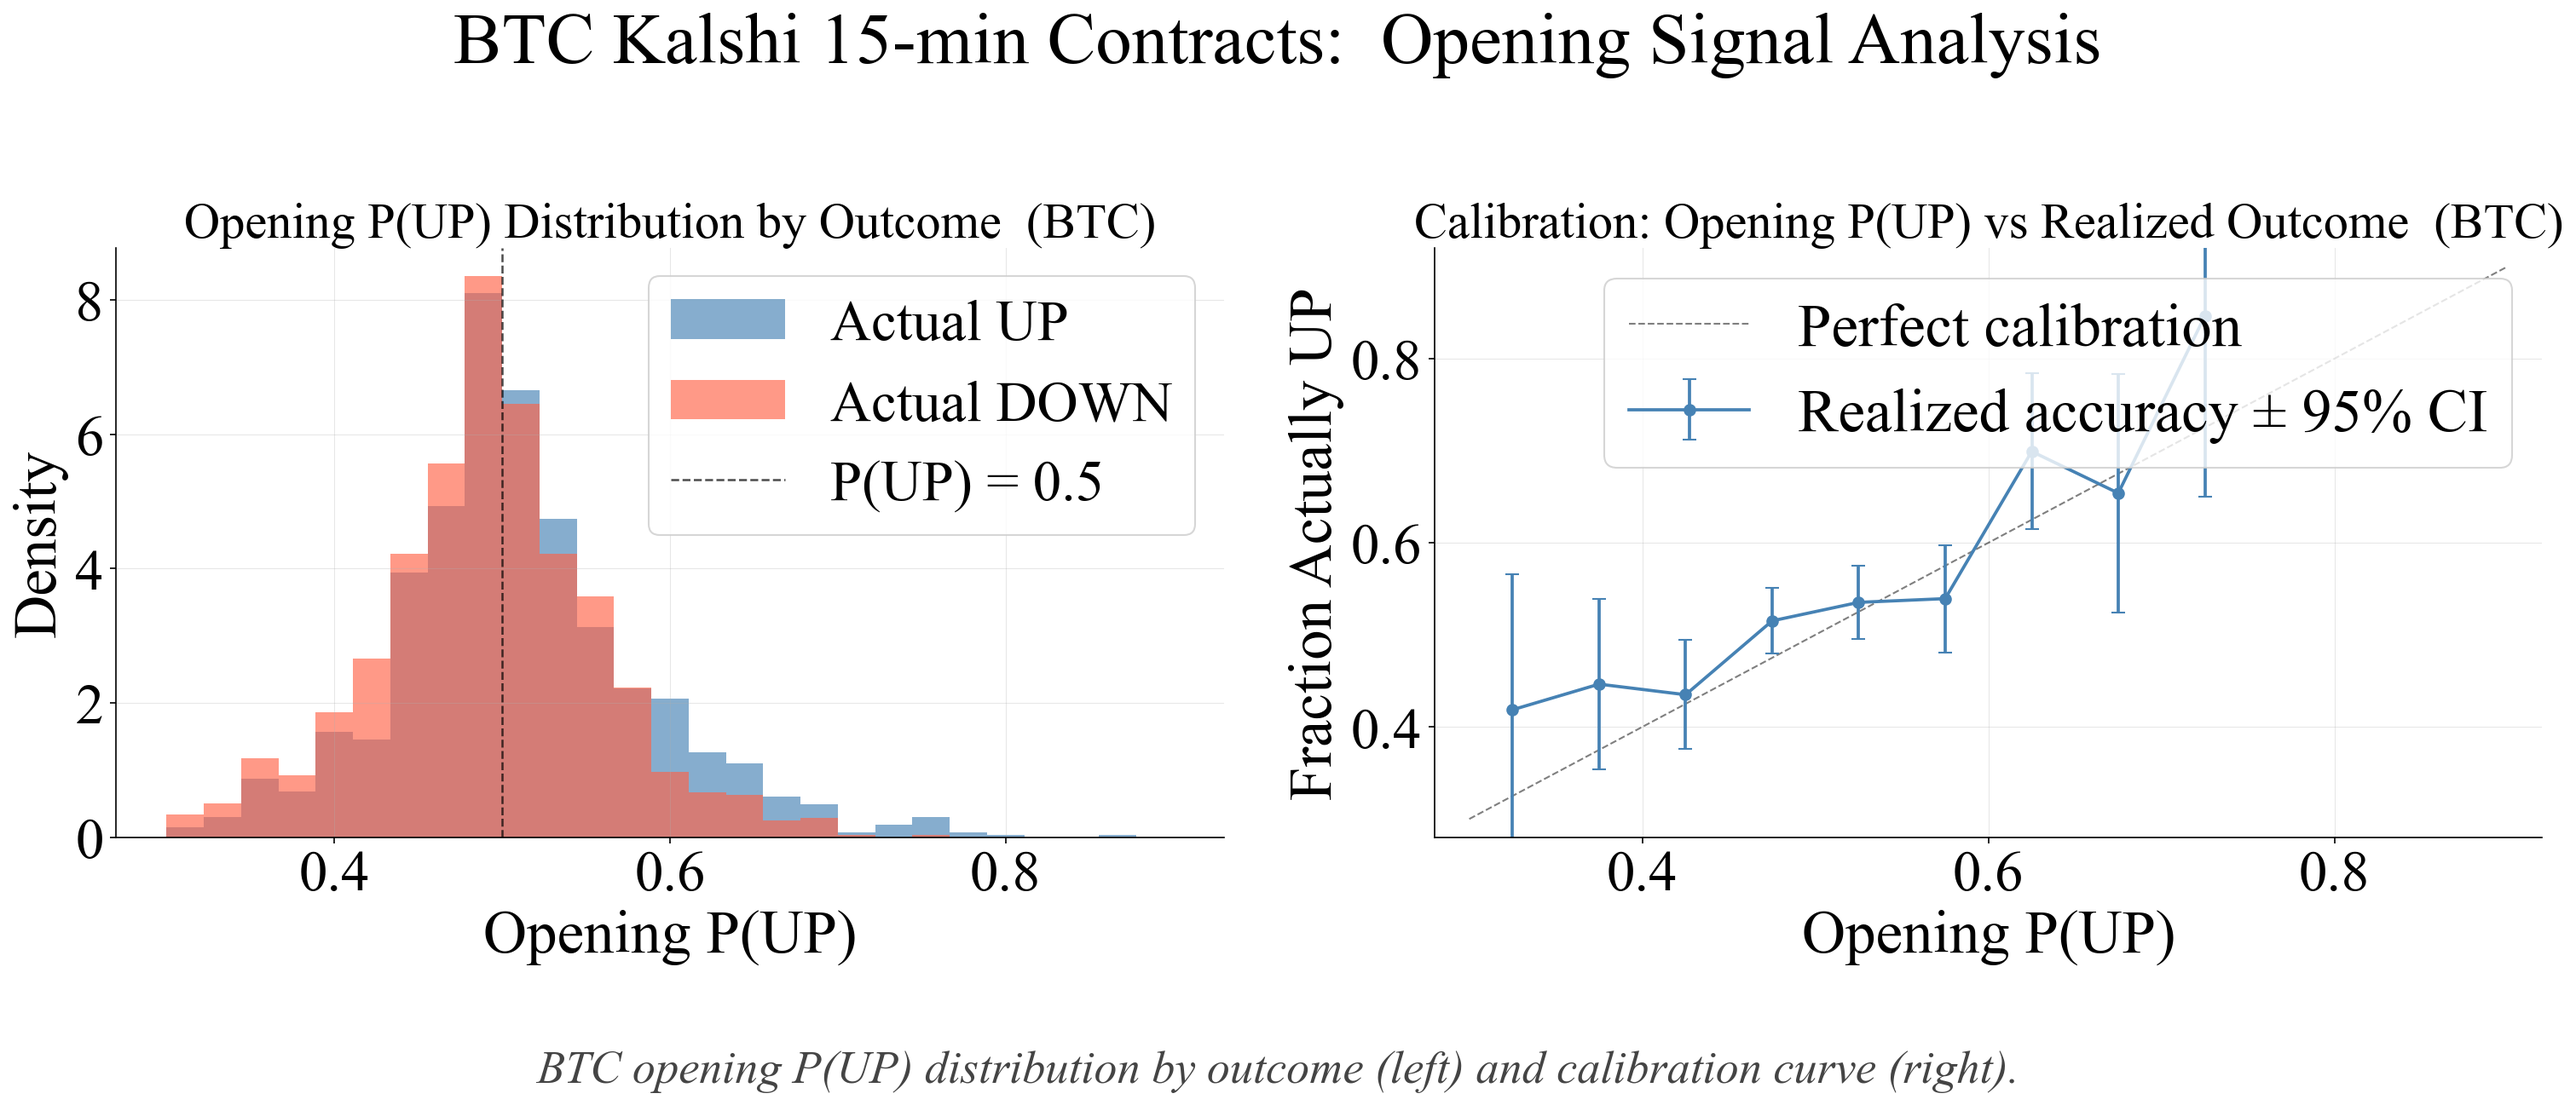
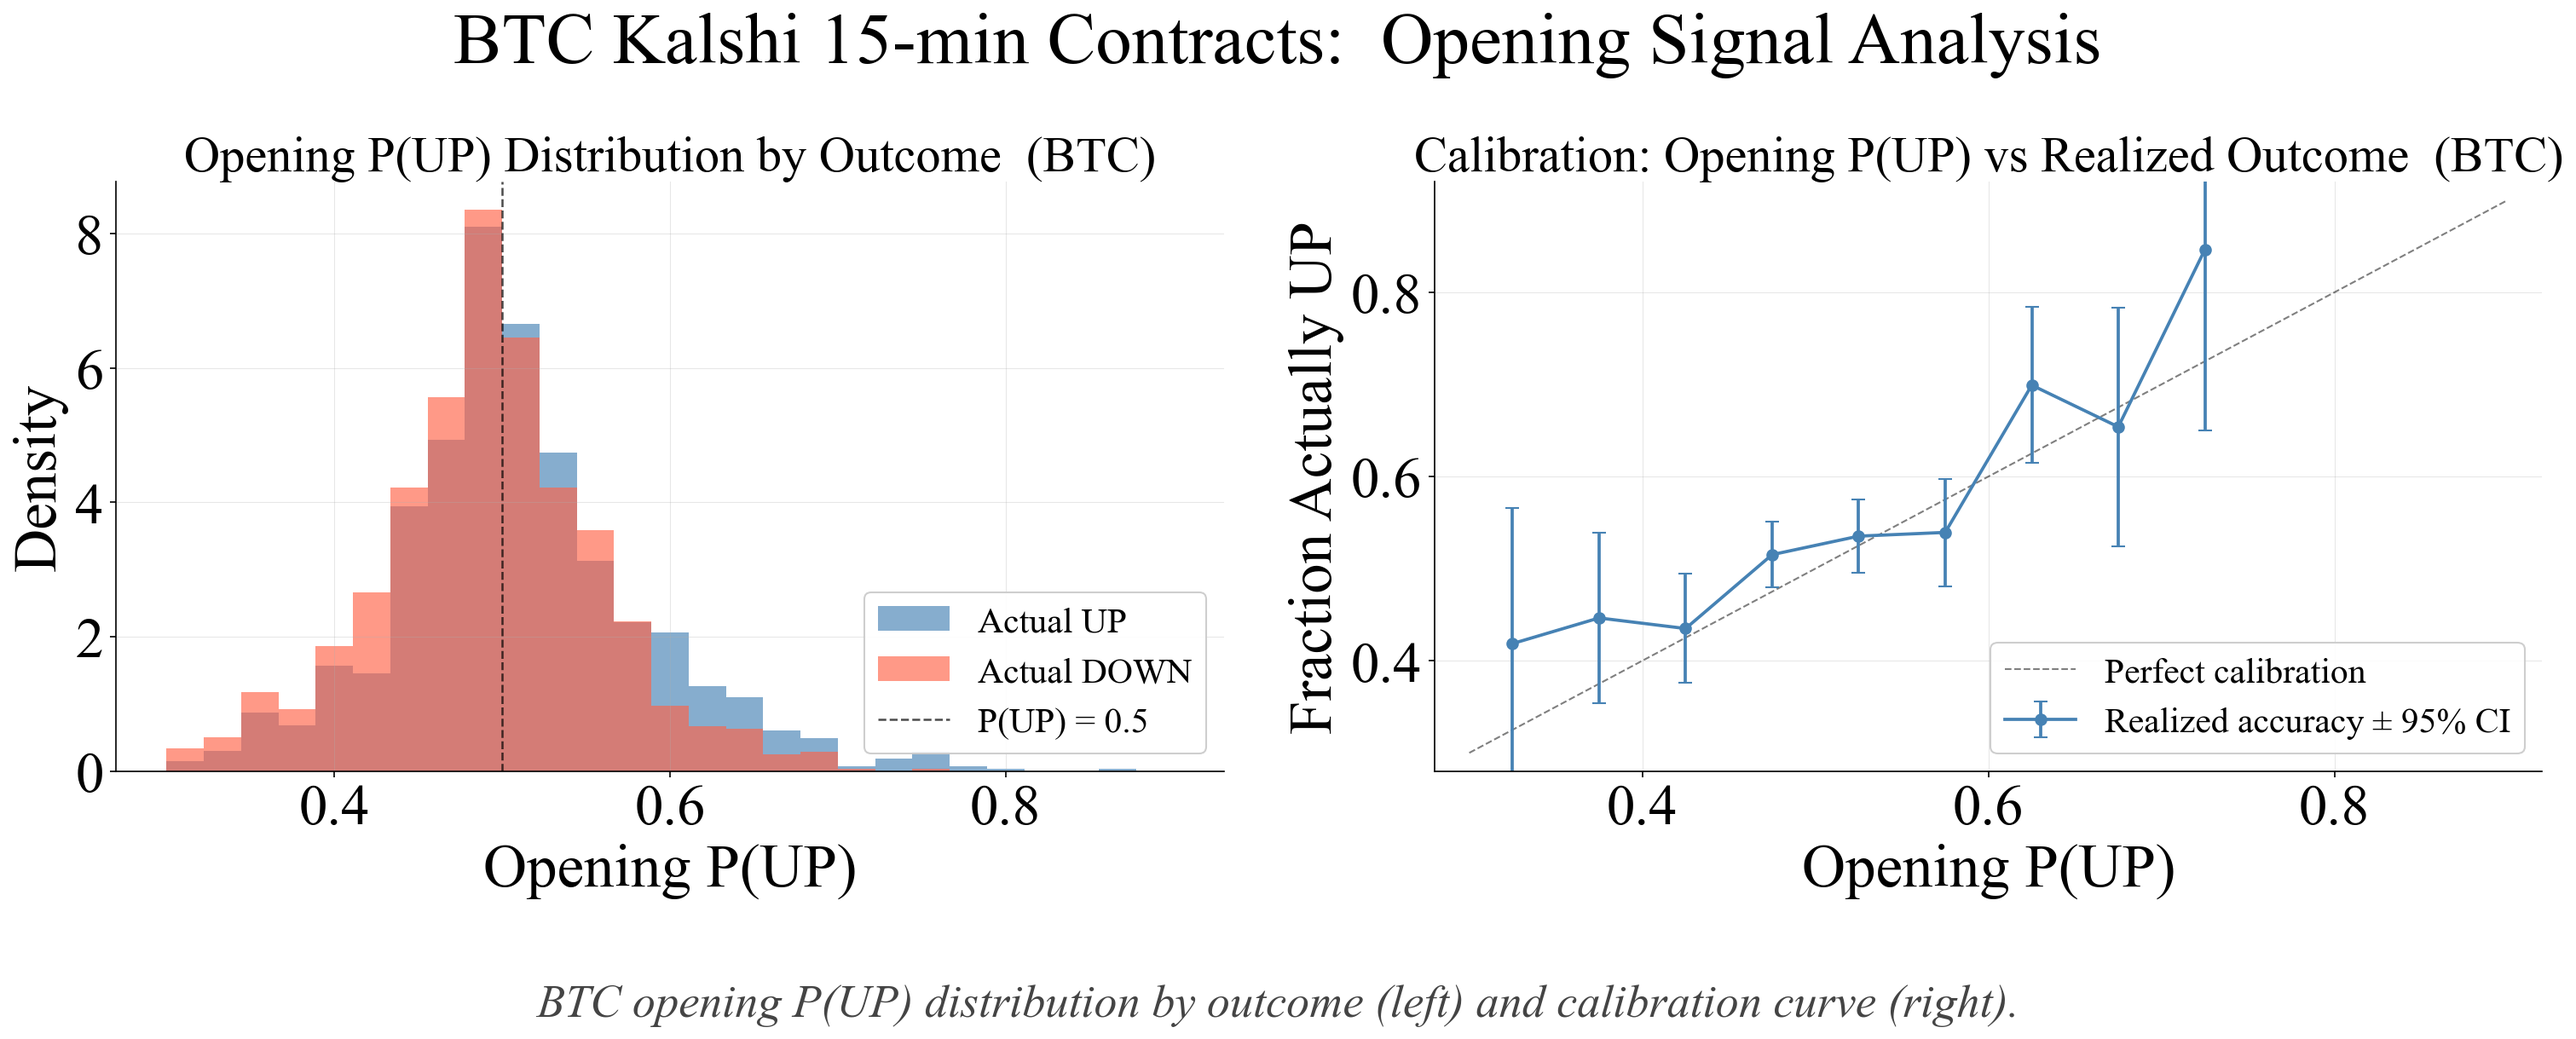
Restore Xavi's original scripts/kalshi/btc/ + figure tweaks
I should not have touched Xavi's directory in the prior refactor.  This
commit restores his five analysis scripts and five PNG outputs in
scripts/kalshi/btc/ exactly as they were at 77670eb (one commit before
the refactor).  Our refactored copies under scripts/kalshi/analysis/
calibration/ are kept — they have repo-root-relative paths and feed the
deck — so Xavi's folder is preserved for him and the refactored layout
still works.

Calibration panel (figures/eda/calibration_panel.png)
  - Legends moved to lower-right of each panel, dropped from 34 pt → 20 pt.
  - Suptitle lowered (y=0.995 → y=0.93) so it no longer overlaps the panel
    titles.

Hourly accuracy (figures/eda/hourly_accuracy.png)
  - Figure widened/enlarged: figsize=(22, 11) → (28, 14).
  - Red overconfidence-gap labels shrunk: 22 pt → 14 pt so they fit
    inside the bar/gap region without overflow.

diff --git a/scripts/kalshi/btc/btc_entry_strategy.py b/scripts/kalshi/btc/btc_entry_strategy.py
@@ -1,0 +1,117 @@
+import numpy as np
+import pandas as pd
+import matplotlib.pyplot as plt
+import matplotlib.colors as mcolors
+
+THRESHOLD   = 0.60
+ROLL_WIN    = 3
+STAY_CONSEC = 2
+
+df = pd.read_csv("kalshi_btc_prices.csv")
+df["Timestamp"]     = pd.to_datetime(df["Timestamp"])
+df["Correct_bin"]   = (df["Correct?"] == "Correct").astype(int)
+df["Minute_offset"] = df.groupby("Market Ticker").cumcount()
+
+open_p = (
+    df[df["Minute_offset"] == 0]
+    .set_index("Market Ticker")["P(UP)"]
+    .rename("Open_PUP")
+)
+df = df.join(open_p, on="Market Ticker")
+
+bin_edges  = [0.0, 0.35, 0.45, 0.55, 0.65, 0.75, 1.01]
+bin_labels = ["<=0.35", "0.35-0.45", "0.45-0.55", "0.55-0.65", "0.65-0.75", ">=0.75"]
+bin_order  = bin_labels[::-1]
+
+df["Open_bin"] = pd.cut(df["Open_PUP"], bins=bin_edges, labels=bin_labels, right=False)
+
+raw = (
+    df.groupby(["Open_bin", "Minute_offset"], observed=True)["Correct_bin"]
+    .mean()
+    .unstack("Minute_offset")
+    .reindex(bin_order)
+)
+n_per_bin = (
+    df[df["Minute_offset"] == 0]
+    .groupby("Open_bin", observed=True)
+    .size()
+    .reindex(bin_order)
+)
+rolled = raw.T.rolling(window=ROLL_WIN, center=True, min_periods=2).mean().T
+
+
+def first_sustained_cross(series, threshold, consec):
+    vals = series.values
+    idxs = series.index.tolist()
+    for i in range(len(vals) - consec + 1):
+        window = vals[i : i + consec]
+        if not any(np.isnan(v) for v in window) and all(v >= threshold for v in window):
+            return idxs[i]
+    return None
+
+
+rows = []
+for b in bin_order:
+    em           = first_sustained_cross(rolled.loc[b].dropna(), THRESHOLD, STAY_CONSEC)
+    raw_at_em    = raw.loc[b, em]    if em is not None else np.nan
+    rolled_at_em = rolled.loc[b, em] if em is not None else np.nan
+    peak_rolled  = rolled.loc[b].max()
+    peak_minute  = rolled.loc[b].idxmax() if not np.isnan(peak_rolled) else None
+    rows.append({
+        "P(UP) Bin":             b,
+        "n":                     int(n_per_bin[b]),
+        "Entry Min":             em if em is not None else "never",
+        "Raw Accuracy":               f"{raw_at_em:.1%}"    if not np.isnan(raw_at_em)    else "—",
+        "Smoothed Accuracy":          f"{rolled_at_em:.1%}" if not np.isnan(rolled_at_em) else "—",
+    })
+
+rule_df = pd.DataFrame(rows)
+
+cols = list(rule_df.columns)
+cell_text = rule_df.values.tolist()
+
+entry_col_idx = cols.index("Entry Min")
+cmap = plt.get_cmap("RdYlGn")
+
+cell_colours = [["#f5f5f5" if r % 2 == 0 else "white"] * len(cols)
+                for r in range(len(cell_text))]
+
+entry_vals = [row[entry_col_idx] for row in cell_text]
+numeric_entries = [v for v in entry_vals if isinstance(v, (int, float))]
+vmin, vmax = (min(numeric_entries), max(numeric_entries)) if numeric_entries else (0, 14)
+
+for r, val in enumerate(entry_vals):
+    if isinstance(val, (int, float)):
+        norm = 1.0 - (val - vmin) / max(vmax - vmin, 1)
+        rgba = cmap(0.2 + norm * 0.6)
+        cell_colours[r][entry_col_idx] = mcolors.to_hex(rgba)
+    else:
+        cell_colours[r][entry_col_idx] = "#ffcccc"
+
+fig, ax = plt.subplots(figsize=(13, 3.2))
+ax.axis("off")
+
+tbl = ax.table(
+    cellText=cell_text,
+    colLabels=cols,
+    cellColours=cell_colours,
+    cellLoc="center",
+    loc="center",
+)
+tbl.auto_set_font_size(False)
+tbl.set_fontsize(9.5)
+tbl.scale(1, 1.6)
+
+for c in range(len(cols)):
+    tbl[0, c].set_facecolor("#2c3e50")
+    tbl[0, c].set_text_props(color="white", fontweight="bold")
+
+plt.suptitle(
+    f"BTC Conviction-conditional Entry Rule \n"
+    f"(Threshold={THRESHOLD:.0%}, Rolling Window={ROLL_WIN}, Stay Consecutively={STAY_CONSEC})",
+    fontsize=11, fontweight="bold", y=0.98,
+)
+plt.tight_layout()
+plt.savefig("btc_entry_table.png", dpi=150, bbox_inches="tight")
+print("Saved btc_entry_table.png")
+plt.show()

diff --git a/scripts/kalshi/btc/btc_hourly_analysis.py b/scripts/kalshi/btc/btc_hourly_analysis.py
@@ -1,40 +1,9 @@
-"""
-Intraday seasonality in Kalshi BTC opening accuracy.
-
-Aggregates contracts by UTC hour of open and computes:
-  - implied accuracy = mean opening probability assigned to the favored side
-  - realized accuracy = fraction of those contracts that actually resolved
-    in the favored direction
-Bars highlight hours where realized accuracy falls more than 5 percentage
-points below the implied accuracy (overconfidence gap). This is slide 8 of
-the presentation — Intraday Variability in Realized Accuracy.
-
-Output: figures/eda/hourly_accuracy.png
-"""
-
 import pandas as pd
 import matplotlib.pyplot as plt
-from pathlib import Path
-
-import matplotlib as _mpl
-_mpl.rcParams.update({
-    "font.family":      "Times New Roman",
-    "font.serif":       ["Times New Roman"],
-    "mathtext.fontset": "stix",
-    "font.size":        34,
-    "axes.titlesize":   36,
-    "axes.labelsize":   34,
-    "xtick.labelsize":  32,
-    "ytick.labelsize":  32,
-    "legend.fontsize":  32,
-})
-
-ROOT = Path(__file__).resolve().parents[4]
-
 
 OVERCONFIDENCE_THRESHOLD = 0.05   
 
-df = pd.read_csv(ROOT / "data" / "btc" / "kalshi_btc_prices.csv")
+df = pd.read_csv("kalshi_btc_prices.csv")
 df["Timestamp"]     = pd.to_datetime(df["Timestamp"])
 df["Correct_bin"]   = (df["Correct?"] == "Correct").astype(int)
 df["Minute_offset"] = df.groupby("Market Ticker").cumcount()
@@ -86,7 +55,7 @@ if not flagged.empty:
 else:
     print("\nNo systematically overconfident hours detected.")
 
-fig, ax = plt.subplots(figsize=(28, 14))
+fig, ax = plt.subplots(figsize=(14, 5))
 
 bar_colors = ["#c0392b" if oc else "#2980b9" for oc in is_oc]
 ax.bar(hours, acc, color=bar_colors, width=0.7, edgecolor="white", linewidth=0.6,
@@ -101,7 +70,7 @@ for h, ac, im, oc in zip(hours, acc, implied, is_oc):
             f"−{im - ac:.0%}",
             xy=(h, ac),
             xytext=(h, (ac + im) / 2),
-            ha="center", va="center", fontsize=14, color="#c0392b",
+            ha="center", va="center", fontsize=7, color="#c0392b",
             fontweight="bold",
         )
 
@@ -115,15 +84,10 @@ ax.set_title(
     "Average Initial Prediction Accuracy by Hour  (BTC Kalshi 15-min Contracts)"
 )
 ax.yaxis.set_major_formatter(plt.FuncFormatter(lambda y, _: f"{y:.0%}"))
-ax.legend(fontsize=34, loc="upper left", bbox_to_anchor=(1.01, 1), borderaxespad=0)
+ax.legend(fontsize=9, loc="upper left", bbox_to_anchor=(1.01, 1), borderaxespad=0)
 ax.grid(axis="y", linestyle="--", linewidth=0.4, alpha=0.5, zorder=0)
 ax.set_ylim(bottom=0.25)
 
-fig.text(0.5, -0.02,
-         "Mean opening probability of the favored side (implied) vs realized accuracy by UTC hour.  "
-         "Red labels mark the overconfidence gap on hours where realized < implied by ≥ 5 pp.",
-         ha="center", va="top", fontsize=22, style="italic", color="#444")
-
 plt.tight_layout(rect=[0, 0, 0.85, 1])
-plt.savefig(ROOT / "figures" / "eda" / "hourly_accuracy.png", dpi=150, bbox_inches="tight")
-print("\nSaved: hourly_accuracy.png")
+plt.savefig("btc_hourly_seasonality.png", dpi=150, bbox_inches="tight")
+print("\nSaved: btc_hourly_seasonality.png")

diff --git a/scripts/kalshi/btc/btc_heatmap.py b/scripts/kalshi/btc/btc_heatmap.py
@@ -1,0 +1,92 @@
+import pandas as pd
+import matplotlib.pyplot as plt
+import matplotlib.ticker as mticker
+import numpy as np
+
+df = pd.read_csv("kalshi_btc_prices.csv")
+df["Timestamp"] = pd.to_datetime(df["Timestamp"])
+df["Correct_bin"] = (df["Correct?"] == "Correct").astype(int)
+df["Minute_offset"] = df.groupby("Market Ticker").cumcount()
+
+open_p = (
+    df[df["Minute_offset"] == 0]
+    .set_index("Market Ticker")["P(UP)"]
+    .rename("Open_PUP")
+)
+df = df.join(open_p, on="Market Ticker")
+
+bin_edges   = [0.0, 0.35, 0.45, 0.55, 0.65, 0.75, 1.01]
+bin_labels  = ["<=0.35", "0.35-0.45", "0.45-0.55",
+               "0.55-0.65", "0.65-0.75", ">=0.75"]
+df["Open_bin"] = pd.cut(
+    df["Open_PUP"],
+    bins=bin_edges,
+    labels=bin_labels,
+    right=False,
+)
+
+pivot = (
+    df.groupby(["Open_bin", "Minute_offset"], observed=True)["Correct_bin"]
+    .mean()
+    .unstack("Minute_offset")
+)
+pivot = pivot.iloc[::-1]
+
+n_per_bin = (
+    df[df["Minute_offset"] == 0]
+    .groupby("Open_bin", observed=True)
+    .size()
+    .iloc[::-1]
+)
+
+fig, ax = plt.subplots(figsize=(13, 5))
+
+im = ax.imshow(
+    pivot.values,
+    aspect="auto",
+    cmap="RdYlGn",
+    vmin=0.30,
+    vmax=1.0,
+    interpolation="nearest",
+)
+
+for r, row_label in enumerate(pivot.index):
+    for c, col_label in enumerate(pivot.columns):
+        val = pivot.values[r, c]
+        if not np.isnan(val):
+            txt_color = "black" if 0.42 < val < 0.78 else "white"
+            ax.text(c, r, f"{val:.0%}", ha="center", va="center",
+                    fontsize=7.5, color=txt_color, fontweight="bold")
+
+ax.set_xticks(range(len(pivot.columns)))
+ax.set_xticklabels(pivot.columns)
+ax.set_xlabel("Minute Within Contract")
+
+ax.set_yticks(range(len(pivot.index)))
+ax.set_yticklabels(
+    [f"{lbl}" for lbl in pivot.index],
+    fontsize=9,
+)
+ax.set_ylabel("P(UP) Bin at Contract Open")
+
+ax.set_title(
+    "Kalshi 15-min BTC contracts \n"
+    "Prediction Accuracy by (Minute, Opening Conviction)\n",
+    fontsize=11,
+    pad=10,
+)
+
+ax.axvline(0.5, color="white", linewidth=0.6, alpha=0.5)
+
+cbar = fig.colorbar(im, ax=ax, fraction=0.025, pad=0.02)
+cbar.set_label("Accuracy", fontsize=9)
+cbar.ax.yaxis.set_major_formatter(mticker.PercentFormatter(xmax=1))
+
+plt.tight_layout()
+plt.savefig("btc_accuracy_heatmap.png", dpi=150, bbox_inches="tight")
+print("Saved: btc_accuracy_heatmap.png")
+
+print("\nMean accuracy by bin × minute:")
+with pd.option_context("display.float_format", "{:.1%}".format,
+                       "display.max_columns", 20):
+    print(pivot.to_string())

diff --git a/scripts/kalshi/btc/plot_brier_score.py b/scripts/kalshi/btc/plot_brier_score.py
@@ -1,0 +1,40 @@
+import pandas as pd
+import matplotlib.pyplot as plt
+import numpy as np
+
+df = pd.read_csv("kalshi_btc_prices.csv")
+df["Correct_bin"] = (df["Correct?"] == "Correct").astype(int)
+df["Minute_offset"] = df.groupby("Market Ticker").cumcount()
+df["P_majority"] = df.apply(
+    lambda r: r["P(UP)"] if r["Prediction"] == "UP" else r["P(DOWN)"], axis=1
+)
+df["Brier_sq"] = (df["P_majority"] - df["Correct_bin"]) ** 2
+
+brier = df.groupby("Minute_offset")["Brier_sq"].agg(mean_val="mean", std_val="std").reset_index()
+x = brier["Minute_offset"].values
+y = brier["mean_val"].values
+se = brier["std_val"].values / np.sqrt(df.groupby("Minute_offset").size().values)
+
+improvement = (y[0] - y[-1]) / y[0] * 100
+half_life = next((i for i, v in enumerate(y) if v < y[0] / 2), None)
+n_windows = df["Market Ticker"].nunique()
+
+fig, ax = plt.subplots(figsize=(10, 5))
+
+ax.fill_between(x, y - se, y + se, alpha=0.15, color="black")
+ax.plot(x, y, color="black", linewidth=1.8, zorder=3)
+ax.scatter(x, y, color="black", s=30, zorder=4)
+ax.axhline(0.25, color="gray", linestyle="--", linewidth=1.0, label="Baseline (0.25)")
+
+ax.set_xlim(-0.5, 14.5)
+ax.set_ylim(-0.01, 0.30)
+ax.set_xticks(range(0, 15))
+ax.set_xlabel("Minutes into market window")
+ax.set_ylabel("Brier Score")
+ax.set_title(f"BTC Brier Score Over Time  (n={n_windows}, {improvement:.1f}% improvement, halves at t={half_life})")
+ax.legend(fontsize=9)
+ax.grid(axis="y", linestyle="--", linewidth=0.5, alpha=0.4)
+
+plt.tight_layout()
+plt.savefig("btc_brier_score_timeseries.png", dpi=150, bbox_inches="tight")
+print("Saved: btc_brier_score_timeseries.png")

diff --git a/scripts/kalshi/analysis/eda/preprocessing.py b/scripts/kalshi/analysis/eda/preprocessing.py
@@ -180,7 +180,7 @@ def plot_pup_distribution(btc_c: pd.DataFrame) -> None:
     axes[0].set_xlabel("Opening P(UP)")
     axes[0].set_ylabel("Density")
     axes[0].set_title("Opening P(UP) Distribution by Outcome  (BTC)", fontsize=28)
-    axes[0].legend()
+    axes[0].legend(loc="lower right", fontsize=20, framealpha=0.95)
 
     # Calibration: for each P(UP) bin, what fraction actually ended UP?
     cal_edges = np.linspace(0.30, 0.90, 13)
@@ -203,13 +203,12 @@ def plot_pup_distribution(btc_c: pd.DataFrame) -> None:
     axes[1].set_xlabel("Opening P(UP)")
     axes[1].set_ylabel("Fraction Actually UP")
     axes[1].set_title("Calibration: Opening P(UP) vs Realized Outcome  (BTC)", fontsize=28)
-    axes[1].legend(fontsize=34)
+    axes[1].legend(loc="lower right", fontsize=20, framealpha=0.95)
     axes[1].set_xlim(0.28, 0.92)
     axes[1].set_ylim(0.28, 0.92)
 
-    # Suptitle nudged down a hair (was y=1.02) and panel-titles below
-    # are set at fontsize=28 inside this function so they don't compete with it.
-    plt.suptitle("BTC Kalshi 15-min Contracts:  Opening Signal Analysis", y=0.995)
+    # Suptitle further from the panels so the panel titles read on their own.
+    plt.suptitle("BTC Kalshi 15-min Contracts:  Opening Signal Analysis", y=0.93)
     fig.text(0.5, -0.02,
              "BTC opening P(UP) distribution by outcome (left) and calibration curve (right).",
              ha="center", va="top", fontsize=26, style="italic", color="#444")

diff --git a/scripts/kalshi/btc/btc_accuracy.py b/scripts/kalshi/btc/btc_accuracy.py
@@ -1,0 +1,40 @@
+import pandas as pd
+import matplotlib.pyplot as plt
+import numpy as np
+
+df = pd.read_csv("kalshi_btc_prices.csv")
+df["Timestamp"] = pd.to_datetime(df["Timestamp"])
+df["Correct_bin"] = (df["Correct?"] == "Correct").astype(int)
+df["Minute_offset"] = df.groupby("Market Ticker").cumcount()
+
+accuracy = (
+    df.groupby("Minute_offset")["Correct_bin"]
+    .agg(accuracy="mean", n="count")
+    .reset_index()
+)
+accuracy["accuracy_pct"] = accuracy["accuracy"] * 100
+
+fig, ax = plt.subplots(figsize=(10, 5))
+
+x = accuracy["Minute_offset"].values
+y = accuracy["accuracy_pct"].values
+
+ax.plot(x, y, color="black", linewidth=1.8, zorder=3)
+ax.scatter(x, y, color="black", s=30, zorder=4)
+ax.axhline(50, color="gray", linestyle="--", linewidth=1.0, label="50% (random chance)")
+ax.axvline(15, color="gray", linestyle=":", linewidth=1.0, label="Outcome set (t=15)")
+
+total_windows = df["Market Ticker"].nunique()
+ax.set_xlim(-0.5, 15.5)
+ax.set_ylim(40, 100)
+ax.set_xticks(range(0, 16))
+ax.set_xlabel("Minutes into market window")
+ax.set_ylabel("Majority prediction accuracy (%)")
+ax.set_title(f"BTC Majority Prediction Accuracy Over Time  (n={total_windows} windows)")
+ax.legend(fontsize=9)
+ax.grid(axis="y", linestyle="--", linewidth=0.5, alpha=0.4)
+
+plt.tight_layout()
+plt.savefig("btc_accuracy_timeseries.png", dpi=150, bbox_inches="tight")
+print("Saved: btc_accuracy_timeseries.png")
+print(accuracy.to_string(index=False))
